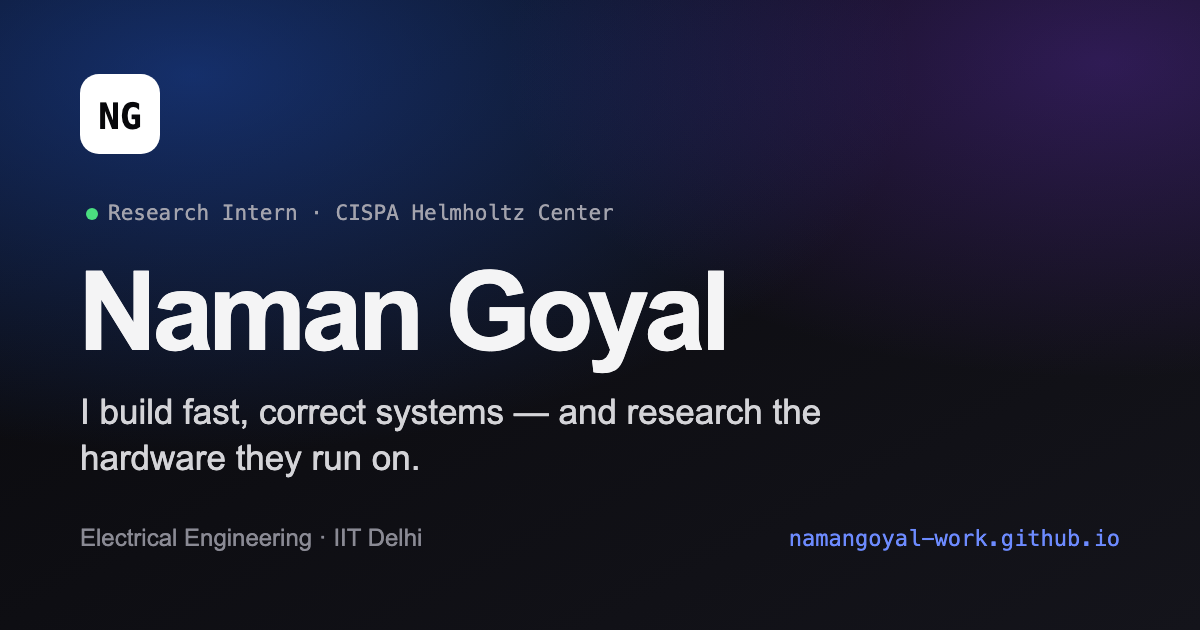
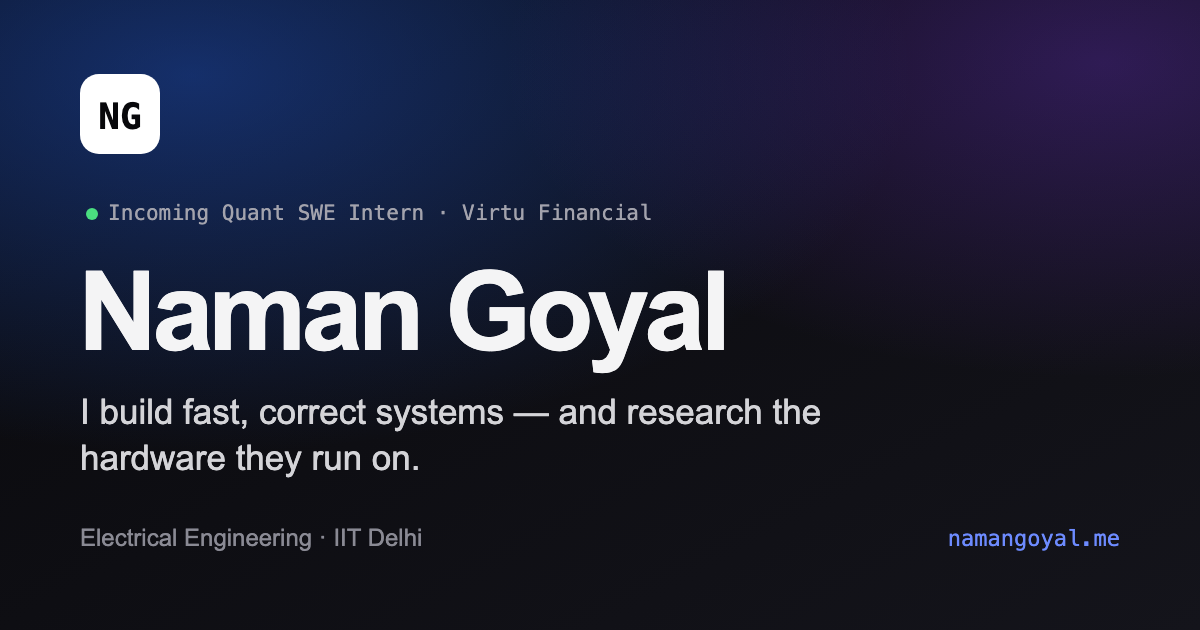
SEO: strengthen the Naman Goyal entity, add Virtu, stable /resume URL
Entity/structured data (the part that actually matters for a common name):
- Person: add givenName/familyName, affiliation (IIT Delhi, with
  alternateName + sameAs), hasOccupation, nationality, knowsLanguage,
  mainEntityOfPage. Drop the stale worksFor (CISPA internship ended).
- sameAs now reads from site.profiles so every owned profile URL becomes
  another edge tying the entity to this domain.
- robots meta: add max-snippet:-1, max-video-preview:-1.
- og:type=profile now carries profile:first_name / profile:last_name.
- Optional Bing verification token alongside Google.

Content (also SEO — these are the disambiguating terms):
- Title is name-first with the strongest qualifier: "Naman Goyal — IIT
  Delhi | Low-Latency Systems & Quant".
- Description, hero status, about copy and OG card now say Virtu.
- Fix stale "second-year" -> third-year.
- OG card pointed at namangoyal-work.github.io; now the brand domain.

Plumbing:
- /resume and /cv redirect to the PDF, excluded from the sitemap. Send
  people the stable URL, rename the file freely later.
- 404 is noindex via a new Base/Seo prop.
- robots.txt explicitly welcomes answer-engine crawlers.

Changed region(s): [[0.0925, 0.3016, 0.555, 0.3619], [0.6475, 0.8444, 0.925, 0.8746]]

diff --git a/src/data/site.ts b/src/data/site.ts
@@ -16,7 +16,7 @@ export const site = {
 
   /** A supporting line for the hero. Keep it concrete, not boastful. */
   subhead:
-    "Electrical Engineering at IIT Delhi, currently a research intern at CISPA working on hardware security. I focus on low-latency C++, quantum computing, and turning hard problems into clean code.",
+    "Third-year Electrical Engineering at IIT Delhi, ranked first in my department. Incoming quantitative software engineering intern at Virtu Financial; previously hardware-security research at CISPA. I work on low-latency C++, FPGA design, and quantum computing.",
 
   email: "namangoyal@tutamail.com",
   location: "New Delhi, India",
@@ -27,26 +27,44 @@ export const site = {
     linkedin: "https://www.linkedin.com/in/namangoyalo",
   },
 
+  /**
+   * Extra profile URLs for schema.org `sameAs`.
+   *
+   * This is the highest-value SEO field on a personal site with a common name:
+   * every verified profile you list here is another edge tying the *entity*
+   * "Naman Goyal, IIT Delhi" to this domain, which is how Google tells you
+   * apart from everyone else with your name. Add Codeforces, Kaggle, ORCID,
+   * Google Scholar, Devpost, Stack Overflow — anything you actually own.
+   * Only add URLs that resolve and that link back here where possible.
+   */
+  profiles: [] as string[],
+
   /** SEO. `title` is the <title>; description is the search snippet. */
   seo: {
-    title: "Naman Goyal — Systems, Hardware Security & Quant",
+    title: "Naman Goyal — IIT Delhi | Low-Latency Systems & Quant",
     description:
-      "Naman Goyal — Electrical Engineering at IIT Delhi and research intern at CISPA. I build low-latency C++ systems, quantum simulators, ML models, and FPGA hardware. Open to quant and research internships.",
+      "Naman Goyal — Electrical Engineering at IIT Delhi, Dept Rank 1, incoming quantitative software engineering intern at Virtu Financial. Low-latency C++, FPGA, and hardware-security research.",
     /** 1200×630 image used for link previews on social / chat apps. */
     ogImage: "/og-image.png",
     /** Helps search engines and rich results understand who you are. */
     keywords: [
       "Naman Goyal",
+      "Naman Goyal IIT Delhi",
       "IIT Delhi",
       "Electrical Engineering",
-      "CISPA",
-      "hardware security",
-      "low latency C++",
+      "Virtu Financial",
       "quantitative developer",
-      "quant",
-      "quantum computing",
-      "machine learning",
+      "quant developer",
+      "low latency C++",
+      "high frequency trading systems",
+      "tick to trade",
       "FPGA",
+      "SystemVerilog",
+      "hardware security",
+      "RISC-V",
+      "CISPA",
+      "quantum computing",
+      "competitive programming",
     ],
   },
 
@@ -58,6 +76,8 @@ export const site = {
    */
   verification: {
     google: "",
+    /** Bing Webmaster Tools token (bing.com/webmasters). Optional. */
+    bing: "",
   },
 } as const;
 

diff --git a/src/data/about.ts b/src/data/about.ts
@@ -4,8 +4,8 @@
 
 /** Each string is one paragraph. Keep it to two or three. */
 export const aboutParagraphs: string[] = [
-  "I'm a second-year Electrical Engineering student at IIT Delhi, ranked first in my department. I'm drawn to problems that sit between disciplines — where a clean algorithm, a tight C++ implementation, and real silicon all have to agree.",
-  "Right now that means hardware-security research at CISPA, alongside systems I build to sharpen my craft: a low-latency C++ execution engine, quantum simulators, and FPGA designs. My background is competitive mathematics and science, and I apply it to real software and hardware engineering.",
+  "I'm a third-year Electrical Engineering student at IIT Delhi, ranked first in my department. I'm drawn to problems that sit between disciplines — where a clean algorithm, a tight C++ implementation, and real silicon all have to agree.",
+  "Next summer I join Virtu Financial as a quantitative software engineering intern. Before that: hardware-security research at CISPA, and the systems I build to sharpen the craft — a tick-to-trade FPGA pipeline, a low-latency C++ execution engine, quantum simulators. My background is competitive mathematics and science, and I apply it to real software and hardware engineering.",
 ];
 
 export interface Education {
